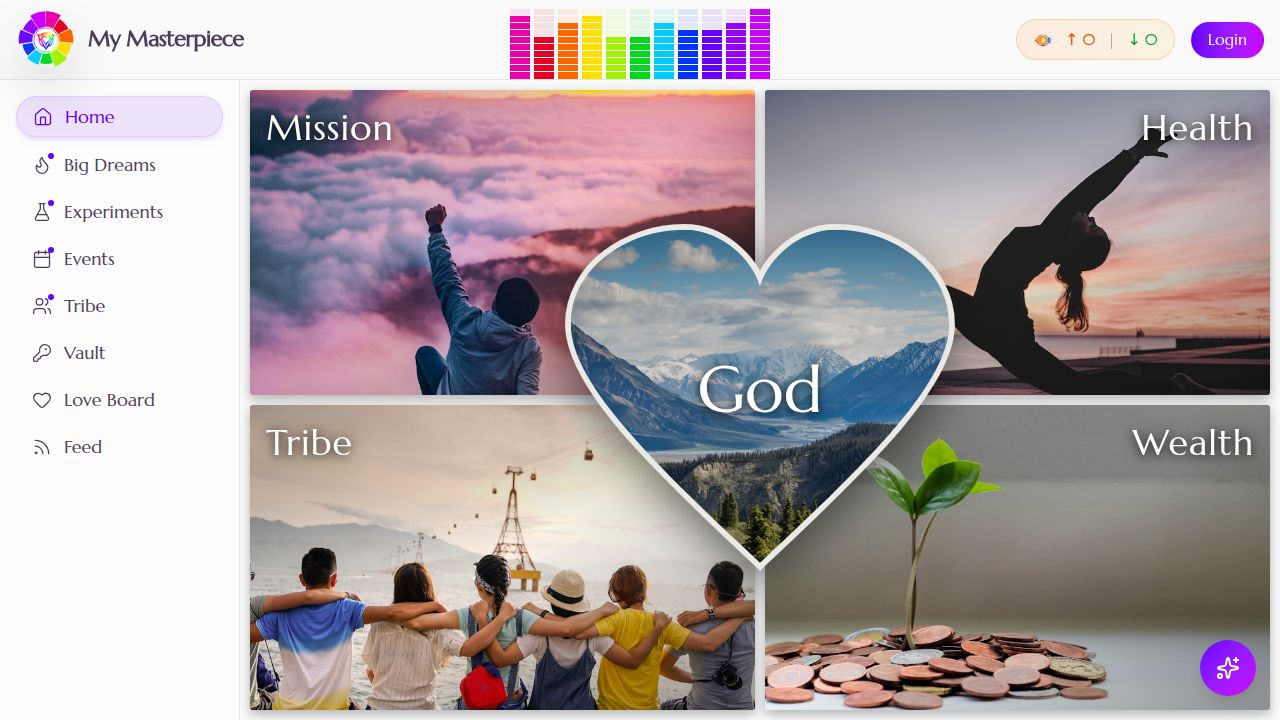
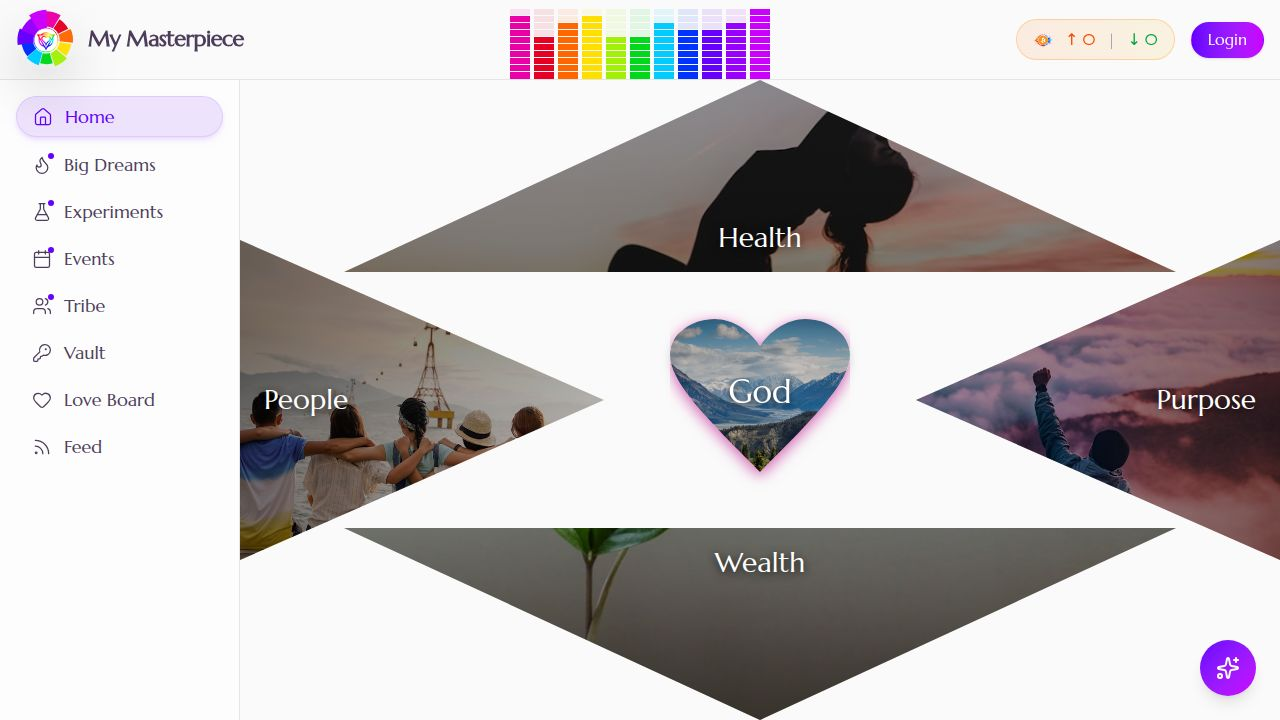
Create a prosperity pyramid layout for the mobile homepage
Introduces a new `ProsperityPyramid` component to the homepage, replacing the `HeartDashboard`, and implements a pyramid-like layout with interactive, flip-over cards for different life areas.

Replit-Commit-Author: Agent
Replit-Commit-Session-Id: 451a2c23-6228-4568-a416-98a9110e21ad
Replit-Commit-Checkpoint-Type: full_checkpoint
Replit-Commit-Event-Id: f24609ff-521e-45b5-b45a-fcb21a50feaa
Replit-Commit-Screenshot-Url: https://storage.googleapis.com/screenshot-production-us-central1/fc1445fb-c5b4-4e37-95c8-dc1683ddab51/451a2c23-6228-4568-a416-98a9110e21ad/PEmdjws
Replit-Helium-Checkpoint-Created: true

diff --git a/client/src/components/dashboard/prosperity-pyramid.tsx b/client/src/components/dashboard/prosperity-pyramid.tsx
@@ -1,0 +1,341 @@
+import { useState } from "react";
+import { useLocation } from "wouter";
+import { motion, AnimatePresence } from "framer-motion";
+import { Heart, X } from "lucide-react";
+
+interface PyramidAreaData {
+  id: string;
+  title: string;
+  imageUrl: string;
+  quote: string;
+  affirmation: string;
+  progress: number;
+  link: string;
+}
+
+const pyramidAreas: PyramidAreaData[] = [
+  {
+    id: "health",
+    title: "Health",
+    imageUrl: "https://images.unsplash.com/photo-1544367567-0f2fcb009e0b?w=800&h=600&fit=crop",
+    quote: "Your body is a temple of the Holy Spirit.",
+    affirmation: "I am vibrant, healthy, and full of energy.",
+    progress: 72,
+    link: "/big-dreams?area=health",
+  },
+  {
+    id: "people",
+    title: "People",
+    imageUrl: "https://images.unsplash.com/photo-1529156069898-49953e39b3ac?w=800&h=600&fit=crop",
+    quote: "We rise by lifting others.",
+    affirmation: "I attract loving, supportive relationships.",
+    progress: 65,
+    link: "/big-dreams?area=tribe",
+  },
+  {
+    id: "purpose",
+    title: "Purpose",
+    imageUrl: "https://images.unsplash.com/photo-1519834785169-98be25ec3f84?w=800&h=600&fit=crop",
+    quote: "Your purpose is your power.",
+    affirmation: "I am living my divine purpose every day.",
+    progress: 58,
+    link: "/big-dreams?area=mission",
+  },
+  {
+    id: "wealth",
+    title: "Wealth",
+    imageUrl: "https://images.unsplash.com/photo-1579621970563-ebec7560ff3e?w=800&h=600&fit=crop",
+    quote: "Wealth flows to me in expected and unexpected ways.",
+    affirmation: "I am abundant in all areas of my life.",
+    progress: 45,
+    link: "/big-dreams?area=wealth",
+  },
+  {
+    id: "god",
+    title: "God",
+    imageUrl: "https://images.unsplash.com/photo-1464822759023-fed622ff2c3b?w=800&h=800&fit=crop",
+    quote: "With God, all things are possible.",
+    affirmation: "I am LOVED unconditionally.",
+    progress: 100,
+    link: "/big-dreams?area=god",
+  },
+];
+
+interface FlippedCardModalProps {
+  area: PyramidAreaData;
+  onClose: () => void;
+  onExplore: () => void;
+}
+
+function FlippedCardModal({ area, onClose, onExplore }: FlippedCardModalProps) {
+  return (
+    <motion.div
+      initial={{ opacity: 0 }}
+      animate={{ opacity: 1 }}
+      exit={{ opacity: 0 }}
+      className="fixed inset-0 z-50 flex items-center justify-center bg-black/60 backdrop-blur-sm p-4"
+      onClick={onClose}
+    >
+      <motion.div
+        initial={{ scale: 0.8, rotateY: -90 }}
+        animate={{ scale: 1, rotateY: 0 }}
+        exit={{ scale: 0.8, rotateY: 90 }}
+        transition={{ duration: 0.4, ease: "easeOut" }}
+        className="relative w-full max-w-sm aspect-square bg-[#FAF8F5] rounded-2xl shadow-2xl overflow-hidden"
+        onClick={(e) => e.stopPropagation()}
+      >
+        <button
+          onClick={onClose}
+          className="absolute top-3 right-3 z-10 p-2 rounded-full bg-muted/50 hover:bg-muted transition-colors"
+        >
+          <X className="w-5 h-5 text-muted-foreground" />
+        </button>
+
+        <div className="flex flex-col items-center justify-center h-full p-6 text-center">
+          {area.id === "god" && (
+            <Heart className="w-12 h-12 text-[#eb00a8] fill-[#eb00a8] mb-4" />
+          )}
+          
+          <h2 className="text-2xl font-serif font-bold text-foreground mb-2">
+            {area.title}
+          </h2>
+          
+          <p className="text-sm text-muted-foreground italic mb-6 px-4">
+            "{area.quote}"
+          </p>
+
+          <div className="w-full max-w-xs mb-6">
+            <div className="text-xs text-muted-foreground mb-2 uppercase tracking-wider">
+              Today's Affirmation
+            </div>
+            <p className="text-lg font-serif text-[#6600ff] font-medium">
+              "{area.affirmation}"
+            </p>
+          </div>
+
+          {area.id !== "god" && (
+            <>
+              <div className="w-3/4 bg-muted rounded-full h-2 mb-2">
+                <div
+                  className="bg-gradient-to-r from-[#6600ff] to-[#cc00ff] rounded-full h-full transition-all duration-500"
+                  style={{ width: `${area.progress}%` }}
+                />
+              </div>
+              <span className="text-sm text-muted-foreground mb-4">
+                {area.progress}% Progress
+              </span>
+            </>
+          )}
+
+          <button
+            onClick={onExplore}
+            className="px-6 py-2.5 bg-gradient-to-r from-[#6600ff] to-[#cc00ff] hover:from-[#5500dd] hover:to-[#bb00dd] rounded-lg text-white font-medium transition-colors shadow-md"
+          >
+            Explore {area.title}
+          </button>
+        </div>
+      </motion.div>
+    </motion.div>
+  );
+}
+
+export function ProsperityPyramid() {
+  const [, setLocation] = useLocation();
+  const [flippedArea, setFlippedArea] = useState<PyramidAreaData | null>(null);
+
+  const getArea = (id: string) => pyramidAreas.find((a) => a.id === id)!;
+
+  const handleAreaClick = (id: string) => {
+    setFlippedArea(getArea(id));
+  };
+
+  const handleExplore = () => {
+    if (flippedArea) {
+      setLocation(flippedArea.link);
+      setFlippedArea(null);
+    }
+  };
+
+  return (
+    <div className="relative w-full h-full overflow-hidden bg-background">
+      {/* Mobile: Pyramid Layout using CSS clip-path */}
+      <div className="relative w-full h-full">
+        {/* Health - Top Triangle */}
+        <div
+          className="absolute cursor-pointer overflow-hidden transition-transform hover:scale-[1.02] active:scale-[0.98]"
+          style={{
+            top: 0,
+            left: "10%",
+            right: "10%",
+            height: "30%",
+            clipPath: "polygon(50% 0%, 0% 100%, 100% 100%)",
+          }}
+          onClick={() => handleAreaClick("health")}
+          data-testid="pyramid-health"
+        >
+          <div
+            className="absolute inset-0 bg-cover bg-center"
+            style={{ backgroundImage: `url(${getArea("health").imageUrl})` }}
+          />
+          <div className="absolute inset-0 bg-gradient-to-b from-black/30 to-black/50" />
+          <div className="absolute inset-0 flex items-end justify-center pb-4">
+            <span
+              className="text-white text-xl md:text-2xl font-serif"
+              style={{ textShadow: "0 2px 8px rgba(0,0,0,0.8)" }}
+            >
+              Health
+            </span>
+          </div>
+        </div>
+
+        {/* People - Left Triangle */}
+        <div
+          className="absolute cursor-pointer overflow-hidden transition-transform hover:scale-[1.02] active:scale-[0.98]"
+          style={{
+            top: "25%",
+            left: 0,
+            width: "35%",
+            height: "50%",
+            clipPath: "polygon(0% 0%, 100% 50%, 0% 100%)",
+          }}
+          onClick={() => handleAreaClick("people")}
+          data-testid="pyramid-people"
+        >
+          <div
+            className="absolute inset-0 bg-cover bg-center"
+            style={{ backgroundImage: `url(${getArea("people").imageUrl})` }}
+          />
+          <div className="absolute inset-0 bg-gradient-to-r from-black/50 to-black/30" />
+          <div className="absolute inset-0 flex items-center justify-start pl-3 md:pl-6">
+            <span
+              className="text-white text-xl md:text-2xl font-serif"
+              style={{ textShadow: "0 2px 8px rgba(0,0,0,0.8)" }}
+            >
+              People
+            </span>
+          </div>
+        </div>
+
+        {/* Purpose - Right Triangle */}
+        <div
+          className="absolute cursor-pointer overflow-hidden transition-transform hover:scale-[1.02] active:scale-[0.98]"
+          style={{
+            top: "25%",
+            right: 0,
+            width: "35%",
+            height: "50%",
+            clipPath: "polygon(100% 0%, 0% 50%, 100% 100%)",
+          }}
+          onClick={() => handleAreaClick("purpose")}
+          data-testid="pyramid-purpose"
+        >
+          <div
+            className="absolute inset-0 bg-cover bg-center"
+            style={{ backgroundImage: `url(${getArea("purpose").imageUrl})` }}
+          />
+          <div className="absolute inset-0 bg-gradient-to-l from-black/50 to-black/30" />
+          <div className="absolute inset-0 flex items-center justify-end pr-3 md:pr-6">
+            <span
+              className="text-white text-xl md:text-2xl font-serif"
+              style={{ textShadow: "0 2px 8px rgba(0,0,0,0.8)" }}
+            >
+              Purpose
+            </span>
+          </div>
+        </div>
+
+        {/* Wealth - Bottom Triangle */}
+        <div
+          className="absolute cursor-pointer overflow-hidden transition-transform hover:scale-[1.02] active:scale-[0.98]"
+          style={{
+            bottom: 0,
+            left: "10%",
+            right: "10%",
+            height: "30%",
+            clipPath: "polygon(0% 0%, 100% 0%, 50% 100%)",
+          }}
+          onClick={() => handleAreaClick("wealth")}
+          data-testid="pyramid-wealth"
+        >
+          <div
+            className="absolute inset-0 bg-cover bg-center"
+            style={{ backgroundImage: `url(${getArea("wealth").imageUrl})` }}
+          />
+          <div className="absolute inset-0 bg-gradient-to-t from-black/50 to-black/30" />
+          <div className="absolute inset-0 flex items-start justify-center pt-4">
+            <span
+              className="text-white text-xl md:text-2xl font-serif"
+              style={{ textShadow: "0 2px 8px rgba(0,0,0,0.8)" }}
+            >
+              Wealth
+            </span>
+          </div>
+        </div>
+
+        {/* God - Center Heart */}
+        <div
+          className="absolute cursor-pointer transition-transform hover:scale-105 active:scale-95"
+          style={{
+            top: "50%",
+            left: "50%",
+            transform: "translate(-50%, -50%)",
+            width: "min(40%, 180px)",
+            aspectRatio: "1",
+          }}
+          onClick={() => handleAreaClick("god")}
+          data-testid="pyramid-god"
+        >
+          <svg viewBox="0 0 100 90" className="w-full h-full drop-shadow-lg">
+            <defs>
+              <clipPath id="heartClipPyramid">
+                <path d="M50 85 C20 55, 0 35, 0 20 C0 8, 12 0, 25 0 C35 0, 45 7, 50 15 C55 7, 65 0, 75 0 C88 0, 100 8, 100 20 C100 35, 80 55, 50 85Z" />
+              </clipPath>
+              <filter id="heartGlow">
+                <feDropShadow dx="0" dy="2" stdDeviation="4" floodColor="rgba(235,0,168,0.5)" />
+              </filter>
+            </defs>
+            <g filter="url(#heartGlow)">
+              <image
+                href={getArea("god").imageUrl}
+                x="-10"
+                y="-5"
+                width="120"
+                height="100"
+                preserveAspectRatio="xMidYMid slice"
+                clipPath="url(#heartClipPyramid)"
+              />
+              <path
+                d="M50 85 C20 55, 0 35, 0 20 C0 8, 12 0, 25 0 C35 0, 45 7, 50 15 C55 7, 65 0, 75 0 C88 0, 100 8, 100 20 C100 35, 80 55, 50 85Z"
+                fill="rgba(0,0,0,0.2)"
+                clipPath="url(#heartClipPyramid)"
+              />
+            </g>
+            <text
+              x="50"
+              y="42"
+              textAnchor="middle"
+              dominantBaseline="middle"
+              fill="white"
+              fontSize="18"
+              fontFamily="Marcellus, Georgia, serif"
+              style={{ textShadow: "0 2px 6px rgba(0,0,0,0.8)" } as React.CSSProperties}
+            >
+              God
+            </text>
+          </svg>
+        </div>
+      </div>
+
+      {/* Flipped Card Modal */}
+      <AnimatePresence>
+        {flippedArea && (
+          <FlippedCardModal
+            area={flippedArea}
+            onClose={() => setFlippedArea(null)}
+            onExplore={handleExplore}
+          />
+        )}
+      </AnimatePresence>
+    </div>
+  );
+}

diff --git a/client/src/pages/home.tsx b/client/src/pages/home.tsx
@@ -1,11 +1,11 @@
 import Layout from "@/components/layout";
-import { HeartDashboard } from "@/components/dashboard/heart-dashboard";
+import { ProsperityPyramid } from "@/components/dashboard/prosperity-pyramid";
 
 export default function Home() {
   return (
     <Layout>
       <div className="w-full h-full bg-background overflow-hidden">
-        <HeartDashboard />
+        <ProsperityPyramid />
       </div>
     </Layout>
   );
